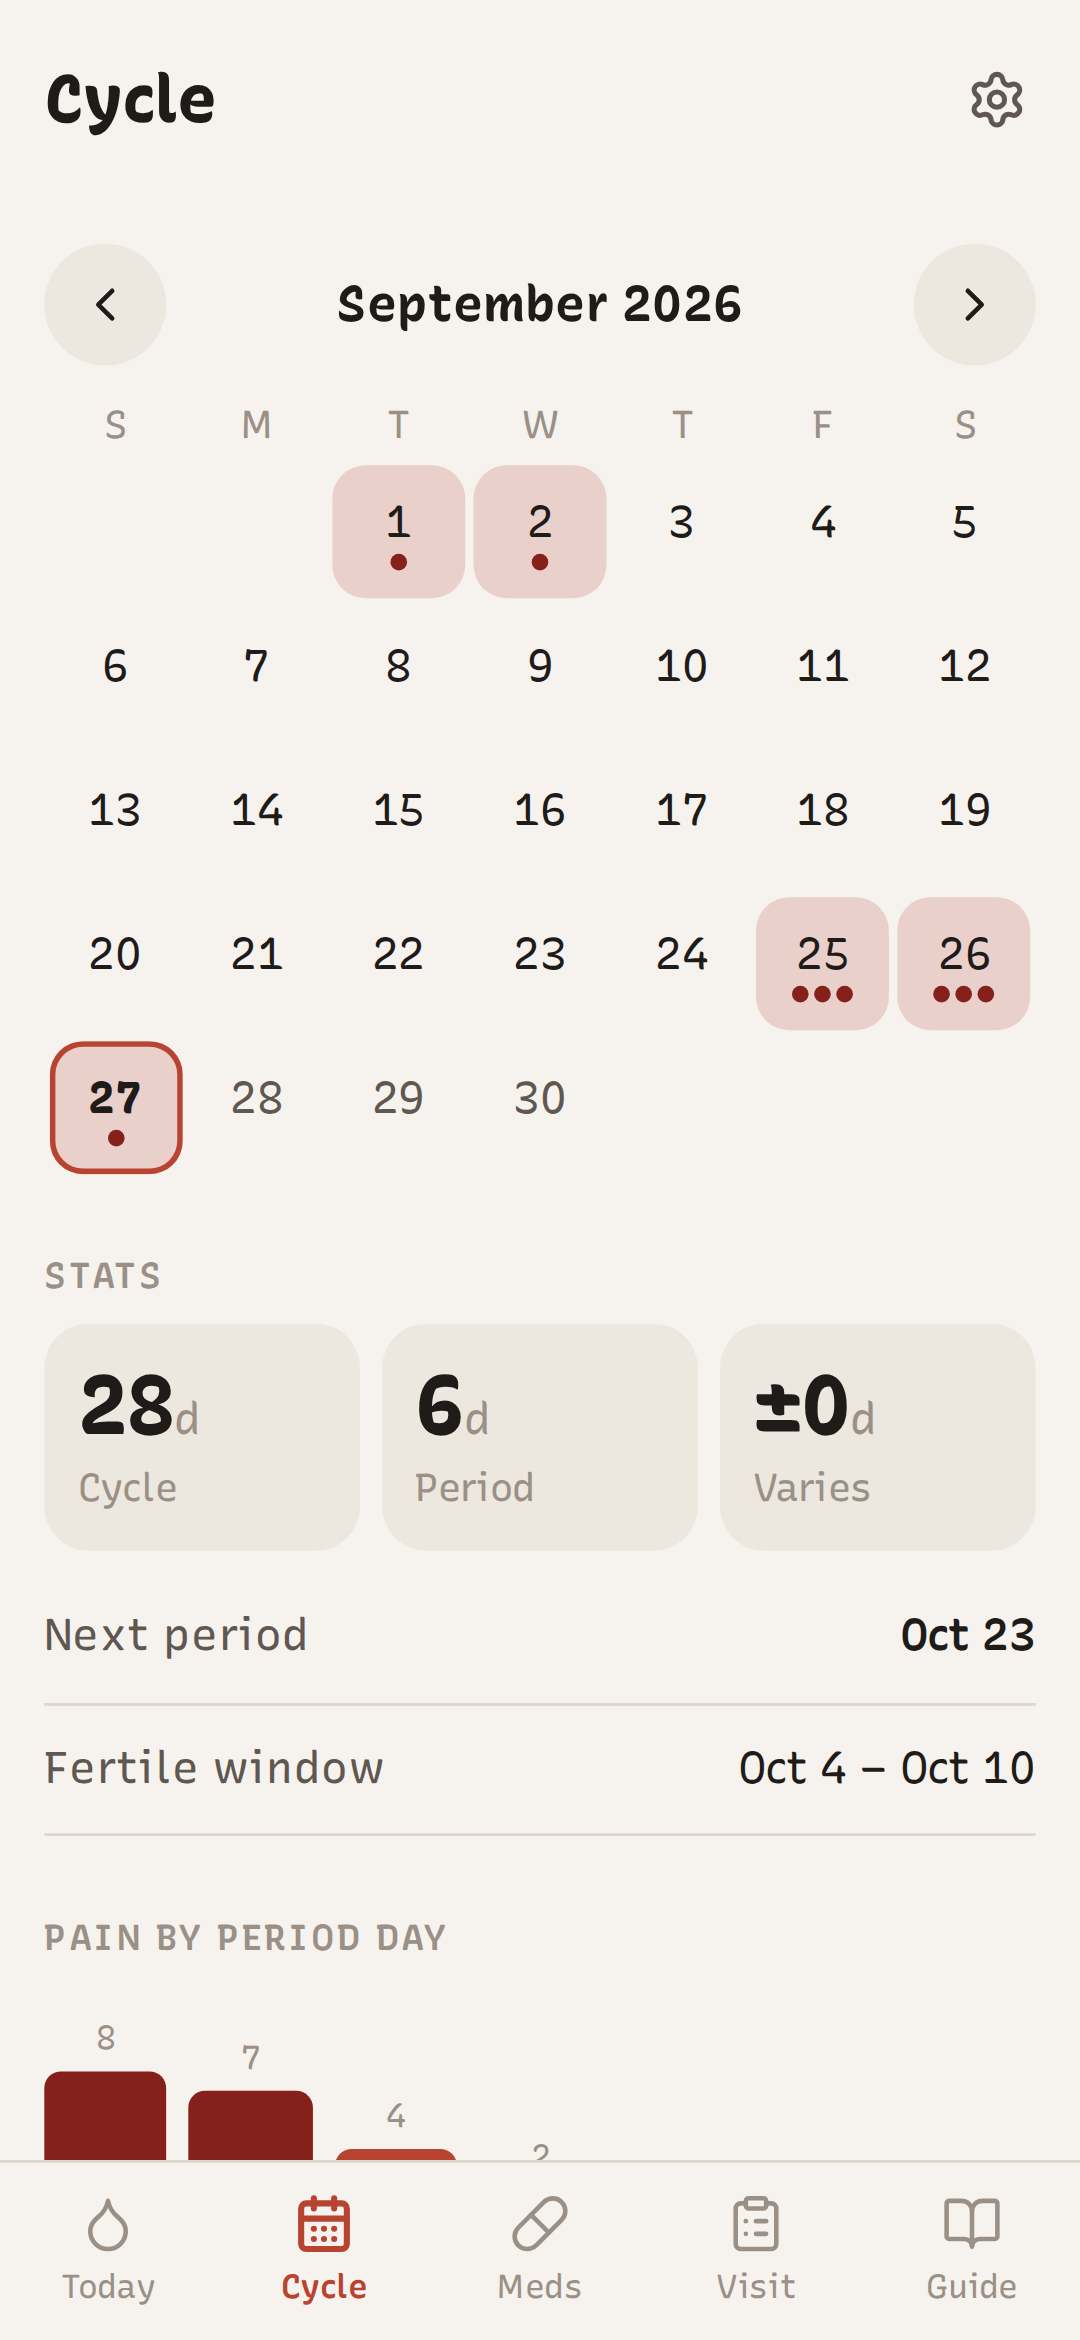
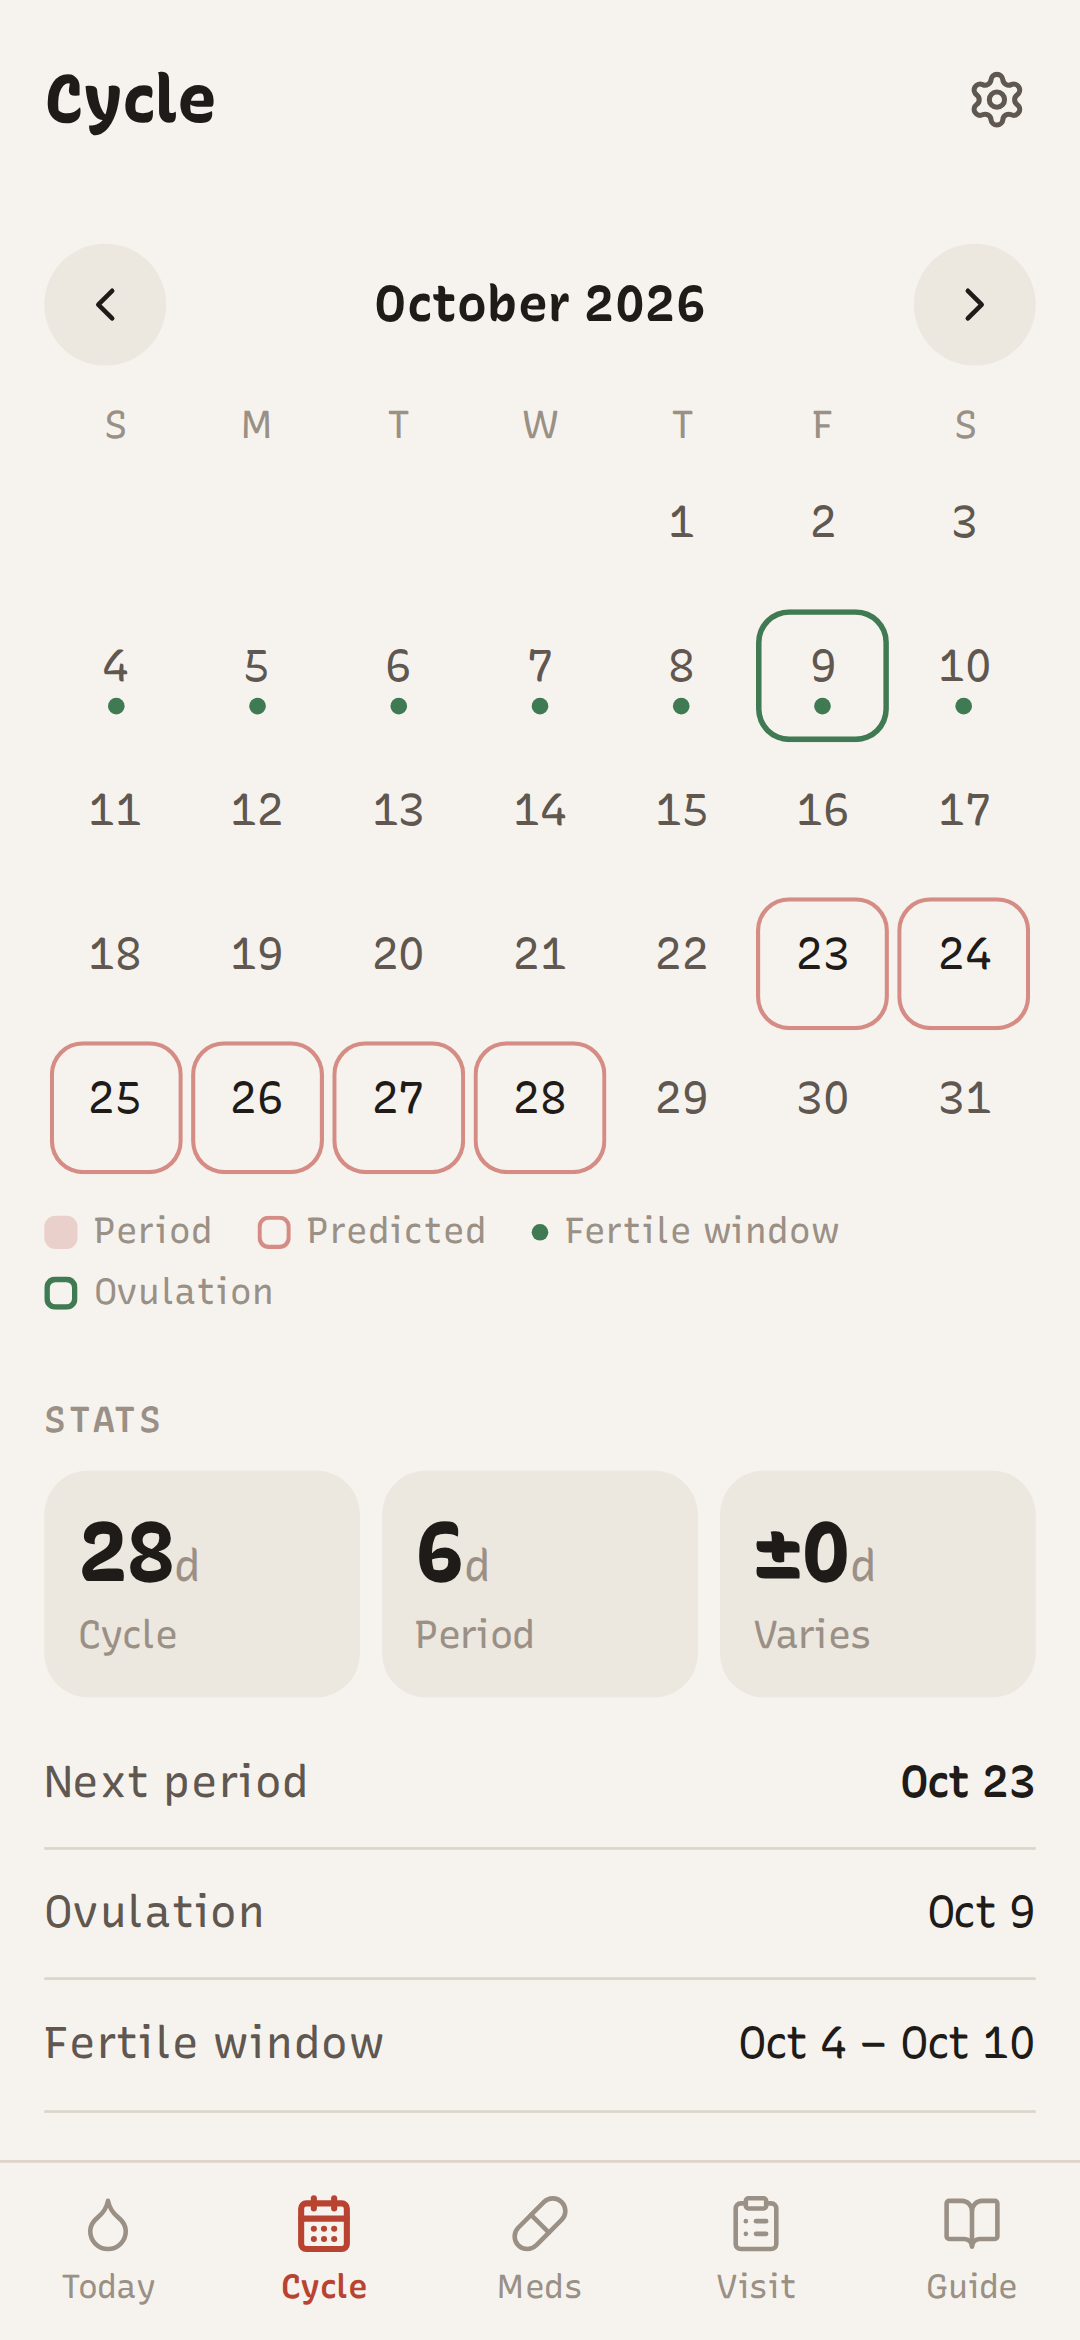
Calendar: fill in past periods with any flow; show ovulation
Tapping a past day outside a period offered only Spotting and "Period
started this day", and the latter was disabled whenever a period was
ongoing. Any past or present day now offers Spotting, Light, Medium and
Heavy. Picking a flow marks it as a period day: it extends a period
within two days on either side, merges two periods it bridges, or starts
a one-day period. None, or tapping the selected flow again, clears the
day and shrinks the period from that edge. Spotting outside a period
stays a spotting mark rather than a period.

The calendar also rings the predicted ovulation day, stats list it, and
a legend explains period, predicted, fertile window and ovulation.
Store screenshots updated. Version 3.0.1.

Claude-Session: https://claude.ai/code/session_01UyNqPeXkEidhpe5dq1BtRE

diff --git a/src/components/cycle/CycleScreen.tsx b/src/components/cycle/CycleScreen.tsx
@@ -22,8 +22,7 @@ interface Props {
   dayLogs: DayLog[];
   trackers: TrackerId[];
   units: Units;
-  onSetFlow: (date: string, flow: FlowLevel | null) => void;
-  onStartPeriod: (date: string) => void;
+  onMarkDay: (date: string, flow: FlowLevel | null) => void;
   onEndPeriod: (date: string) => void;
   onAddPast: (start: string, end: string, flow: FlowLevel) => void;
   onDeleteCycle: (id: string) => void;
@@ -57,6 +56,7 @@ export function CycleScreen(p: Props) {
   const predicted = useMemo(() => {
     const set = new Set<string>();
     const fertile = new Set<string>();
+    const ovulation = new Set<string>();
     const len = stats.averagePeriodLength ?? 5;
     for (const uc of stats.upcomingCycles) {
       for (let i = 0; i < len; i++) {
@@ -64,8 +64,9 @@ export function CycleScreen(p: Props) {
         if (d > today) set.add(d);
       }
       for (let d = uc.fertileStart; d <= uc.fertileEnd; d = addDays(d, 1)) if (d >= today) fertile.add(d);
+      if (uc.ovulationDay >= today) ovulation.add(uc.ovulationDay);
     }
-    return { set, fertile };
+    return { set, fertile, ovulation };
   }, [stats, today]);
 
   const [y, m] = cursor.split('-').map(Number);
@@ -97,7 +98,6 @@ export function CycleScreen(p: Props) {
 
   const history = sortCycles(cycles).reverse();
   const dayCycle = day ? periodOn(cycles, day, today) : undefined;
-  const ongoing = cycles.find((c) => !c.endDate);
   const dayEntries = day ? entriesOn(bleeds, day) : [];
 
   return (
@@ -118,6 +118,7 @@ export function CycleScreen(p: Props) {
             const flow = flowOn(d);
             const isPred = !inPeriod && predicted.set.has(d);
             const isFertile = !inPeriod && predicted.fertile.has(d);
+            const isOvulation = !inPeriod && predicted.ovulation.has(d);
             return (
               <button
                 key={d}
@@ -125,7 +126,9 @@ export function CycleScreen(p: Props) {
                 className="press relative mx-auto flex h-12 w-full max-w-12 flex-col items-center justify-center rounded-xl"
                 style={{
                   background: inPeriod || flow ? 'color-mix(in srgb, var(--flow-medium) 20%, transparent)' : undefined,
-                  boxShadow: isPred ? 'inset 0 0 0 1.5px color-mix(in srgb, var(--flow-medium) 60%, transparent)' : d === today ? 'inset 0 0 0 2px var(--accent)' : undefined,
+                  boxShadow: d === today ? 'inset 0 0 0 2px var(--accent)'
+                    : isOvulation ? 'inset 0 0 0 2px var(--good)'
+                    : isPred ? 'inset 0 0 0 1.5px color-mix(in srgb, var(--flow-medium) 60%, transparent)' : undefined,
                 }}
               >
                 <span className={cx('num text-[16px]', d === today && 'font-extrabold', d > today && !isPred && 'text-t2')}>{Number(d.slice(8))}</span>
@@ -137,6 +140,12 @@ export function CycleScreen(p: Props) {
               </button>
             );
           })}
+        </div>
+        <div className="mt-3 flex flex-wrap items-center gap-x-4 gap-y-1 text-[13px] text-t3">
+          <span className="flex items-center gap-1.5"><span className="h-3 w-3 rounded" style={{ background: 'color-mix(in srgb, var(--flow-medium) 20%, transparent)' }} />{t.on_period}</span>
+          <span className="flex items-center gap-1.5"><span className="h-3 w-3 rounded" style={{ boxShadow: 'inset 0 0 0 1.5px color-mix(in srgb, var(--flow-medium) 60%, transparent)' }} />{t.predicted}</span>
+          <span className="flex items-center gap-1.5"><span className="h-1.5 w-1.5 rounded-full bg-good" />{t.fertile_window}</span>
+          <span className="flex items-center gap-1.5"><span className="h-3 w-3 rounded" style={{ boxShadow: 'inset 0 0 0 2px var(--good)' }} />{t.ovulation}</span>
         </div>
       </Section>
 
@@ -150,6 +159,12 @@ export function CycleScreen(p: Props) {
           <div className="mt-2 flex justify-between border-b border-line py-3">
             <span className="text-t2">{t.next_period}</span>
             <span className="num font-semibold">{short(stats.nextPredictedStart)}</span>
+          </div>
+        )}
+        {stats.ovulationDay && (
+          <div className="flex justify-between border-b border-line py-3">
+            <span className="text-t2">{t.ovulation}</span>
+            <span className="num">{short(stats.ovulationDay)}</span>
           </div>
         )}
         {stats.fertileWindowStart && stats.fertileWindowEnd && (
@@ -195,27 +210,31 @@ export function CycleScreen(p: Props) {
         {day && (
           <div>
             <h3 className="casual text-xl font-bold">{isoToDate(day).toLocaleDateString(loc, { weekday: 'long', month: 'long', day: 'numeric' })}</h3>
-            {dayCycle ? (
-              <>
-                <div className="mt-4 grid grid-cols-4 gap-1.5">
-                  {FLOWS.map((f) => (
-                    <Chip key={f} on={dayCycle.flowByDay[day] === f} onClick={() => p.onSetFlow(day, dayCycle.flowByDay[day] === f ? null : f)} className="px-1 text-[14px]">
-                      {t[`flow_${f}`]}
-                    </Chip>
-                  ))}
-                </div>
-                {!dayCycle.endDate && day >= dayCycle.startDate && day <= today && (
-                  <Button kind="quiet" className="mt-3 w-full" onClick={() => { p.onEndPeriod(day); setDay(null); }}>{t.ended_this_day}</Button>
-                )}
-              </>
-            ) : (
-              day <= today && (
-                <div className="mt-4 grid grid-cols-2 gap-2">
-                  <Button kind="quiet" onClick={() => p.onSpotting(day)}>{t.spotting}</Button>
-                  <Button disabled={!!ongoing} onClick={() => { p.onStartPeriod(day); setDay(null); }}>{t.started_this_day}</Button>
-                </div>
-              )
-            )}
+            {day <= today && (() => {
+              const liners = dayEntries.filter((e) => e.kind === 'liner');
+              const current: FlowLevel | null = dayCycle ? dayCycle.flowByDay[day] ?? null : liners.length ? 'spotting' : null;
+              const pick = (f: FlowLevel) => {
+                if (!dayCycle && f === 'spotting') {
+                  if (liners.length) liners.forEach((e) => p.onRemoveBleed(e));
+                  else p.onSpotting(day);
+                  return;
+                }
+                p.onMarkDay(day, current === f ? null : f);
+              };
+              return (
+                <>
+                  <div className={cx('mt-4 grid gap-1.5', dayCycle ? 'grid-cols-5' : 'grid-cols-4')}>
+                    {FLOWS.map((f) => (
+                      <Chip key={f} on={current === f} onClick={() => pick(f)} className="px-1 text-[14px]">{t[`flow_${f}`]}</Chip>
+                    ))}
+                    {dayCycle && <Chip onClick={() => p.onMarkDay(day, null)} className="px-1 text-[14px]">{t.no_flow}</Chip>}
+                  </div>
+                  {dayCycle && !dayCycle.endDate && day >= dayCycle.startDate && (
+                    <Button kind="quiet" className="mt-3 w-full" onClick={() => { p.onEndPeriod(day); setDay(null); }}>{t.ended_this_day}</Button>
+                  )}
+                </>
+              );
+            })()}
             {dayEntries.length > 0 && (
               <div className="mt-4">
                 {dayEntries.sort((a, b) => a.ts - b.ts).map((e) => (

diff --git a/src/lib/period.ts b/src/lib/period.ts
@@ -1,5 +1,5 @@
-import { BleedEntry, CycleRecord } from './types';
-import { daysBetween, isoOfTs } from './dates';
+import { BleedEntry, CycleRecord, FlowLevel } from './types';
+import { addDays, daysBetween, isoOfTs } from './dates';
 import { isBleeding } from './pbac';
 
 /** A bleed within this many days after a period's end extends that period instead of starting a new one. */
@@ -75,4 +75,72 @@ export function cycleStartFor(sortedStarts: string[], date: string): string | nu
     else break;
   }
   return found;
+}
+
+/**
+ * Marks or clears one past-or-present day as a period day with a flow level, for filling in
+ * periods after the fact. Marking joins the day to a period within REJOIN_DAYS on either side
+ * (merging two periods it bridges) or starts a one-day period. Clearing the first or last day
+ * shrinks the period; clearing its only day removes it. Days in the future are ignored.
+ */
+export function markDay(
+  cycles: CycleRecord[],
+  date: string,
+  flow: FlowLevel | null,
+  today: string
+): CycleRecord[] {
+  if (date > today) return cycles;
+  const inside = periodOn(cycles, date, today);
+
+  if (flow === null) {
+    if (!inside) return cycles;
+    const flowByDay = { ...inside.flowByDay };
+    delete flowByDay[date];
+    const end = inside.endDate ?? today;
+    if (inside.startDate === date && end === date) return cycles.filter((c) => c.id !== inside.id);
+    let next: CycleRecord = { ...inside, flowByDay };
+    if (date === inside.startDate) next = { ...next, startDate: addDays(date, 1) };
+    else if (inside.endDate && date === inside.endDate) next = { ...next, endDate: addDays(date, -1) };
+    return cycles.map((c) => (c.id === inside.id ? next : c));
+  }
+
+  if (inside) {
+    return cycles.map((c) => (c.id === inside.id ? { ...c, flowByDay: { ...c.flowByDay, [date]: flow } } : c));
+  }
+
+  const before = cycles.find(
+    (c) => c.endDate && c.endDate < date && daysBetween(c.endDate, date) <= REJOIN_DAYS
+  );
+  const after = cycles.find(
+    (c) => c.startDate > date && daysBetween(date, c.startDate) <= REJOIN_DAYS
+  );
+
+  if (before && after) {
+    const merged: CycleRecord = {
+      ...before,
+      endDate: after.endDate,
+      flowByDay: { ...before.flowByDay, ...after.flowByDay, [date]: flow },
+    };
+    return cycles.filter((c) => c.id !== after.id).map((c) => (c.id === before.id ? merged : c));
+  }
+  if (before) {
+    return cycles.map((c) =>
+      c.id === before.id ? { ...c, endDate: date, flowByDay: { ...c.flowByDay, [date]: flow } } : c
+    );
+  }
+  if (after) {
+    return cycles.map((c) =>
+      c.id === after.id ? { ...c, startDate: date, flowByDay: { ...c.flowByDay, [date]: flow } } : c
+    );
+  }
+  const ongoing = cycles.some((c) => !c.endDate);
+  return [
+    ...cycles,
+    {
+      id: uid(),
+      startDate: date,
+      endDate: date === today && !ongoing ? undefined : date,
+      flowByDay: { [date]: flow },
+    },
+  ];
 }

diff --git a/src/data/translations.ts b/src/data/translations.ts
@@ -100,6 +100,9 @@ const en = {
   guide_doctor_7: "Pain during or after sexual intercourse",
   guide_doctor_8: "Pain with bowel movements or urination during your period",
   guide_doctor_why: "These symptoms can indicate endometriosis, fibroids, or adenomyosis — conditions with effective treatments when diagnosed. Endometriosis is often missed for 7–10 years. Painful sex and bowel symptoms during your period are key signs.",
+  predicted: "Predicted",
+  ovulation: "Ovulation",
+  no_flow: "None",
   android_app: "Android app",
   nav_today: "Today",
   nav_cycle: "Cycle",
@@ -536,6 +539,9 @@ const ko: T = {
   guide_doctor_7: "성교 중 또는 후에 통증이 있을 때",
   guide_doctor_8: "생리 중 배변이나 소변 시 통증이 있을 때",
   guide_doctor_why: "이러한 증상은 자궁내막증, 자궁근종, 자궁선근증 등을 나타낼 수 있습니다. 자궁내막증은 평균 7~10년간 진단이 지연됩니다. 성교통과 배변통은 핵심 징후입니다.",
+  predicted: "예상",
+  ovulation: "배란",
+  no_flow: "없음",
   android_app: "안드로이드 앱",
   nav_today: "오늘",
   nav_cycle: "주기",
@@ -970,6 +976,9 @@ const my: T = {
   guide_doctor_7: "လိင်ဆက်ဆံစဉ် သို့မဟုတ် ပြီးနောက် နာကျင်မှု ဖြစ်သောအခါ",
   guide_doctor_8: "ဓမ္မတာ ဆောင်နေစဉ် အိမ်သာသွားရာတွင် နာကျင်မှု ဖြစ်သောအခါ",
   guide_doctor_why: "ဤလက္ခဏာများသည် endometriosis၊ fibroids၊ adenomyosis ညွှန်ပြနိုင်သည်။ Endometriosis သည် ပျမ်းမျှ နှစ် ၇-၁၀ ကြာမှ စစ်ဆေးတွေ့ရ်တတ်သည်။",
+  predicted: "ခန့်မှန်း",
+  ovulation: "မျိုးဥကြွေ",
+  no_flow: "မရှိ",
   android_app: "Android အက်ပ်",
   nav_today: "ယနေ့",
   nav_cycle: "သန်းစက်",
@@ -1404,6 +1413,9 @@ const ar: T = {
   guide_doctor_7: "ألم أثناء الجماع أو بعده",
   guide_doctor_8: "ألم عند التبرز أو التبول أثناء الدورة",
   guide_doctor_why: "هذه الأعراض قد تشير إلى بطانة الرحم المهاجرة (Endometriosis) أو الأورام الليفية. يستغرق تشخيص بطانة الرحم المهاجرة ٧-١٠ سنوات في المتوسط — ألم الجماع وألم التبرز علامات مهمة.",
+  predicted: "متوقع",
+  ovulation: "الإباضة",
+  no_flow: "لا شيء",
   android_app: "تطبيق أندرويد",
   nav_today: "اليوم",
   nav_cycle: "الدورة",

diff --git a/src/lib/core.test.ts b/src/lib/core.test.ts
@@ -6,7 +6,7 @@ import { calculateDoseTotals } from './doseCalculator';
 import { MEDICATIONS } from './medications';
 import { DOSE_LIMITS } from './doseLimits';
 import { dayFlow, entryPoints, isHeavy, summarize } from './pbac';
-import { applyBleed, suggestedEnd } from './period';
+import { applyBleed, markDay, suggestedEnd } from './period';
 import { nsaidNonResponse, pendingRelief } from './relief';
 import { buildReport } from './report';
 import { BleedEntry, CycleRecord, IntakeRecord } from './types';
@@ -131,6 +131,41 @@ describe('period auto-start', () => {
     const e = [bleed('2026-02-07', { fill: 1 })];
     expect(suggestedEnd(c, e, '2026-02-08')).toBeNull();
     expect(suggestedEnd(c, e, '2026-02-09')).toBe('2026-02-07');
+  });
+});
+
+describe('marking past period days', () => {
+  const today = '2026-03-20';
+  const c = (id: string, startDate: string, endDate?: string): CycleRecord => ({ id, startDate, endDate, flowByDay: {} });
+
+  it('marks a past day with any flow, even while a period is ongoing', () => {
+    const next = markDay([c('now', '2026-03-19')], '2026-02-10', 'heavy', today);
+    expect(next).toHaveLength(2);
+    const past = next.find((x) => x.id !== 'now')!;
+    expect(past).toMatchObject({ startDate: '2026-02-10', endDate: '2026-02-10', flowByDay: { '2026-02-10': 'heavy' } });
+  });
+  it('extends a period from either side and builds it day by day', () => {
+    let cs = markDay([], '2026-02-10', 'heavy', today);
+    cs = markDay(cs, '2026-02-11', 'medium', today);
+    cs = markDay(cs, '2026-02-09', 'light', today);
+    expect(cs).toHaveLength(1);
+    expect(cs[0]).toMatchObject({ startDate: '2026-02-09', endDate: '2026-02-11' });
+  });
+  it('merges two periods when the day bridges them', () => {
+    const cs = markDay([c('a', '2026-02-05', '2026-02-07'), c('b', '2026-02-09', '2026-02-10')], '2026-02-08', 'medium', today);
+    expect(cs).toHaveLength(1);
+    expect(cs[0]).toMatchObject({ startDate: '2026-02-05', endDate: '2026-02-10' });
+  });
+  it('clearing shrinks from the edges and removes a one-day period', () => {
+    let cs = markDay([c('a', '2026-02-05', '2026-02-07')], '2026-02-05', null, today);
+    expect(cs[0].startDate).toBe('2026-02-06');
+    cs = markDay(cs, '2026-02-07', null, today);
+    expect(cs[0].endDate).toBe('2026-02-06');
+    expect(markDay(cs, '2026-02-06', null, today)).toEqual([]);
+  });
+  it('starts an ongoing period when today is marked, and ignores the future', () => {
+    expect(markDay([], today, 'medium', today)[0].endDate).toBeUndefined();
+    expect(markDay([], '2026-03-21', 'medium', today)).toEqual([]);
   });
 });
 

diff --git a/src/hooks/useCycleData.ts b/src/hooks/useCycleData.ts
@@ -4,7 +4,7 @@ import { CycleRecord, DayLog, FlowLevel } from '../lib/types';
 import { STORAGE_KEYS } from '../lib/storage';
 import { getCycleStats } from '../lib/cycleCalculator';
 import { datesInRange, todayISO } from '../lib/dates';
-import { uid } from '../lib/period';
+import { markDay as markDayIn, uid } from '../lib/period';
 
 export type DayPatch = Partial<Omit<DayLog, 'id' | 'date'>>;
 
@@ -30,18 +30,8 @@ export function useCycleData() {
     setCycles((prev) => [...prev, { id: uid(), startDate, endDate, flowByDay }]);
   }, [setCycles]);
 
-  const setFlow = useCallback((date: string, flow: FlowLevel | null) => {
-    const today = todayISO();
-    setCycles((prev) => {
-      const idx = prev.findIndex((c) => c.startDate <= date && date <= (c.endDate ?? today));
-      if (idx === -1) return prev;
-      const flowByDay = { ...prev[idx].flowByDay };
-      if (flow) flowByDay[date] = flow;
-      else delete flowByDay[date];
-      const next = [...prev];
-      next[idx] = { ...prev[idx], flowByDay };
-      return next;
-    });
+  const markDay = useCallback((date: string, flow: FlowLevel | null) => {
+    setCycles((prev) => markDayIn(prev, date, flow, todayISO()));
   }, [setCycles]);
 
   const deleteCycle = useCallback((id: string) => {
@@ -71,7 +61,7 @@ export function useCycleData() {
     startPeriod,
     endPeriod,
     addPastCycle,
-    setFlow,
+    markDay,
     deleteCycle,
     updateDay,
     getDayLog,

diff --git a/src/app/page.tsx b/src/app/page.tsx
@@ -243,8 +243,7 @@ function App({ lang, setLang, t }: { lang: Language; setLang: (l: Language) => v
                 dayLogs={cyc.dayLogs}
                 trackers={prefs.trackers}
                 units={prefs.units}
-                onSetFlow={cyc.setFlow}
-                onStartPeriod={cyc.startPeriod}
+                onMarkDay={cyc.markDay}
                 onEndPeriod={onEndPeriod}
                 onAddPast={cyc.addPastCycle}
                 onDeleteCycle={cyc.deleteCycle}
